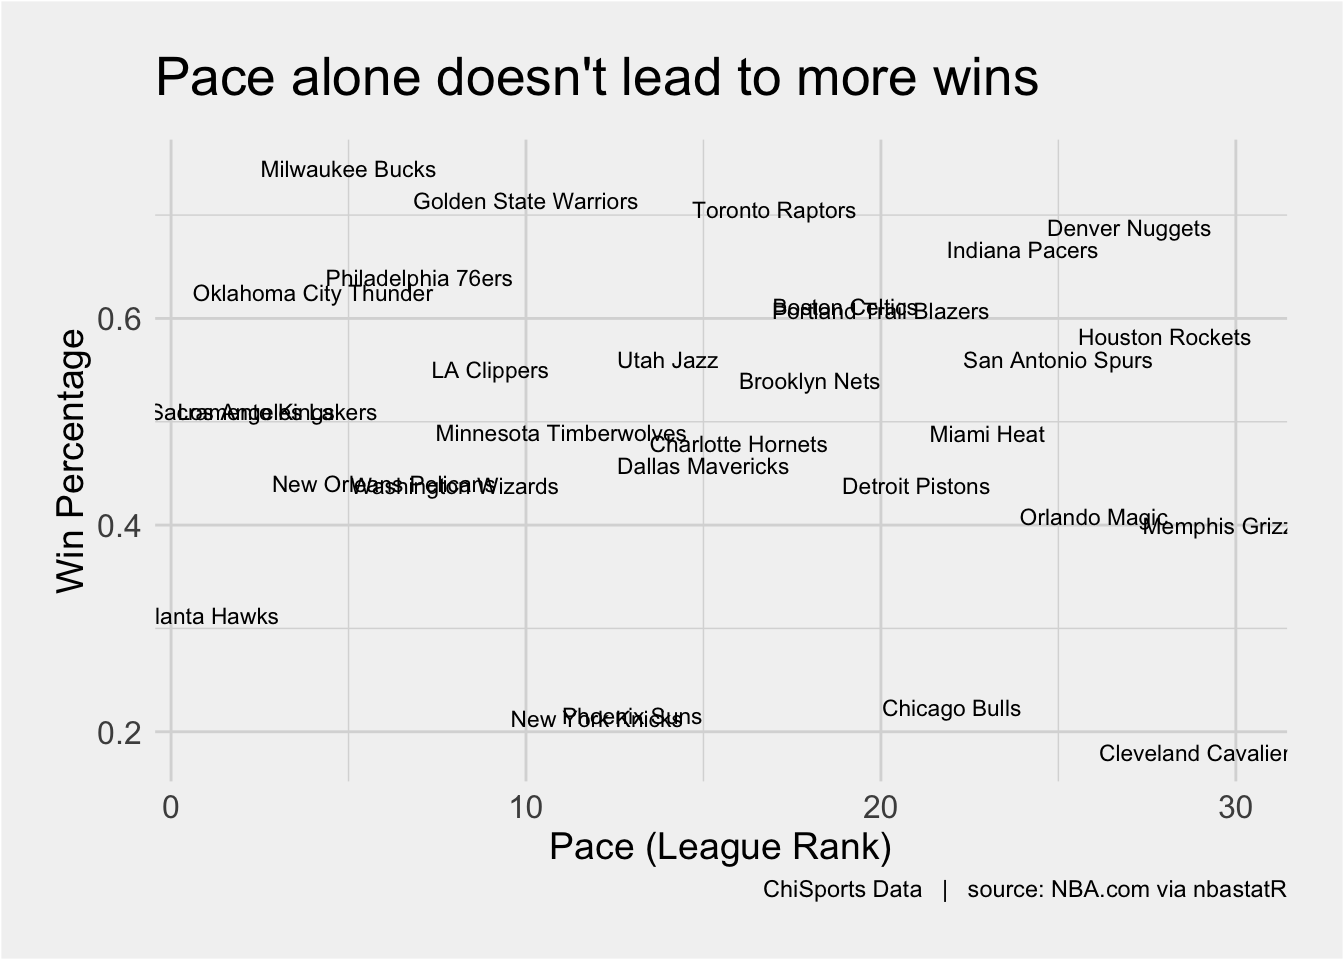
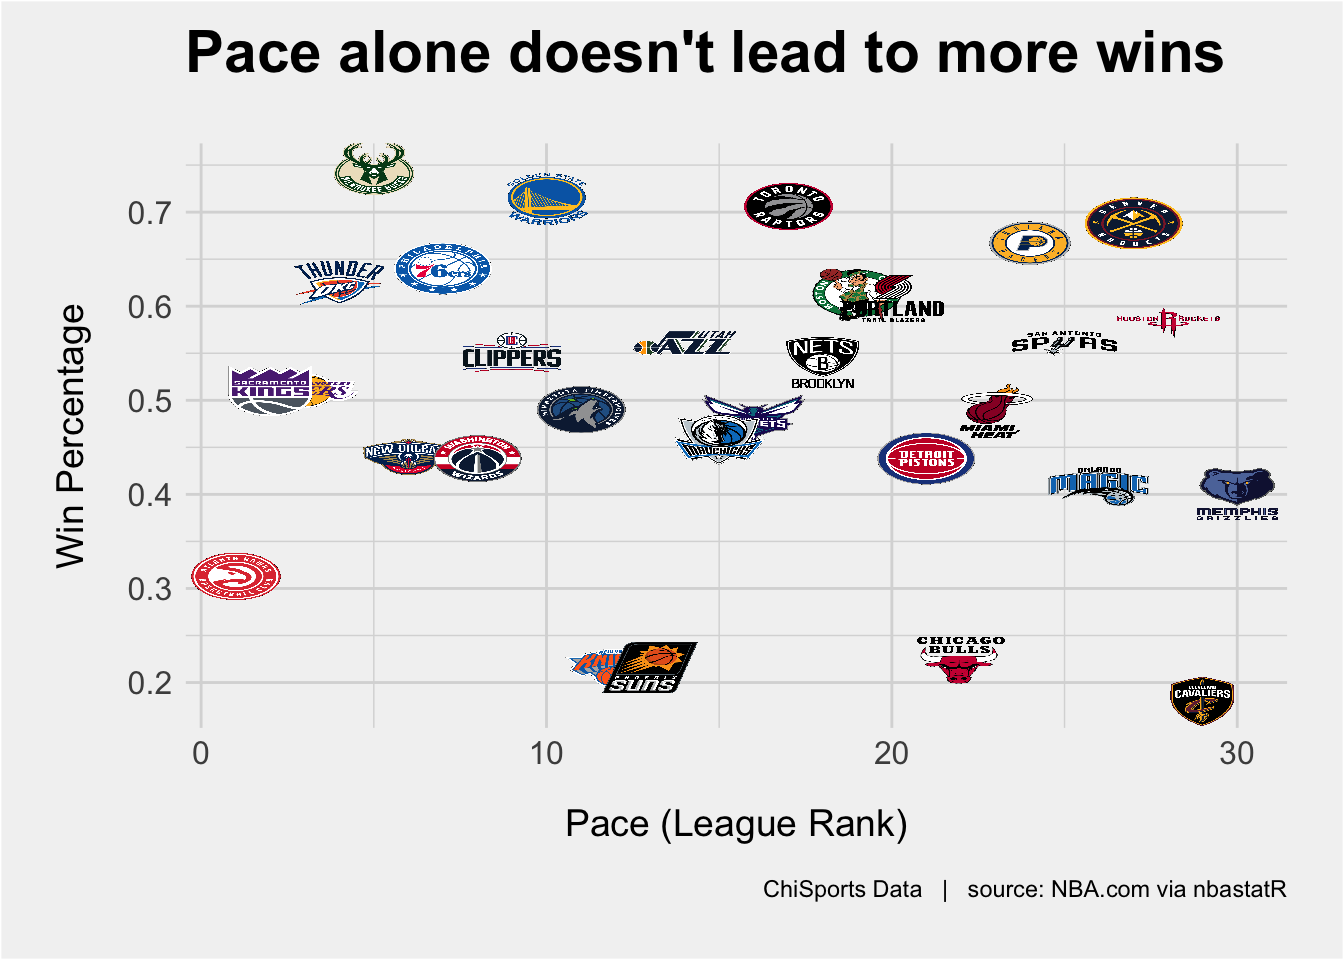
completed pace plot and discussion

diff --git a/content/post/2019-01-24-looking-for-a-reset-button-how-jim-boylen-changed-the-2019-bulls.html b/content/post/2019-01-24-looking-for-a-reset-button-how-jim-boylen-changed-the-2019-bulls.html
@@ -6,12 +6,11 @@ slug: looking-for-a-reset-button-how-jim-boylen-changed-the-2019-bulls
 categories:
   - BULLS
 tags: []
-draft: TRUE
 ---
 
 
 
-<p>Since taking over for Fred Hoiberg at the beginning of December, Jim Boylen has taken a ton of criticism for his approach as the new lead man for the Bulls, but rightfully so. His “play hard” mentality and push to be the best conditioned team in the league (defending push-up champs) hasn’t resonated with players of this era. Not only is this management style not fitting well, his philosophy as a coach doesn’t fit the mold of how the league has trended with a barrage of three point attempts coming per game. While this is rather easy to see now after 24 games, I initially wanted to reserve any judgement on the new coach and see how the team would perform and if the young core would develop. Well, after a 20 point drubbing from the rebuilding Atlanta Hawks at home, I think it’s safe to say the team has some work to do. Not only do we not see any cohesiveness from the team on the court, but we are starting to sense some divide amongst the players and the direction their coach is taking them.</p>
+<p>Since taking over for Fred Hoiberg at the beginning of December, Jim Boylen has taken a ton of criticism for his approach as the new lead man for the Bulls, but rightfully so. His “play hard” mentality and push to be the best conditioned team in the league (defending push-up champs) hasn’t resonated with players of this era. Not only is this management style not fitting well, his philosophy as a coach doesn’t fit the mold of how the league has trended with a barrage of three point attempts coming per game. While this is rather easy to see now after 25 games, I initially wanted to reserve any judgement on the new coach and see how the team would perform and if the young core would develop. Well, after a 20 point drubbing from the rebuilding Atlanta Hawks at home, I think it’s safe to say the team has some work to do. Not only do we not see any cohesiveness from the team on the court, but we are starting to sense some divide amongst the players and the direction their coach is taking them.</p>
 {{% tweet "1088602351747977218" %}}
 <p>Now that Boylen has at least matched the number of games Hoiberg has coached this year, let’s see how the team has transformed.</p>
 <div id="shot-selection" class="section level3">
@@ -22,8 +21,8 @@ draft: TRUE
 </div>
 <div id="pace" class="section level3">
 <h3>Pace</h3>
-<p>We’ve read ad nauseam and seen just how much Jim Boylen wanted to slow the pace down for this team. The team has recently been upping the pace a bit and utilizing it effectively to get points in transition, but that wasn’t the case in Boylen’s earlier games. The reason so many have called for the Bulls to play uptempo is because of the makeup of this roster. With such a young group of players, the coach should want to try and run the other team out of the gym. The Atalanta Hawks are currently ranked 1st in pace and while their win percentage won’t reflect it, the team has built an identity and found a way to make their players successful by getting up and down the floor. If Boylen really wants to try and play in the half-court setting, though, its not that you also can’t be successful doing that. The Spurs, Nuggets, and Rockets are all in the bottom 6 of the league when it comes to pace, possessions per 48.</p>
+<p>We’ve read ad nauseam and seen just how much Jim Boylen wanted to slow the pace down for this team. The team has recently been upping the pace a bit and utilizing it effectively to get points in transition, but that wasn’t the case in Boylen’s earlier games. The reason so many have called for the Bulls to play uptempo is because of the makeup of this roster. With such a young group of players, the coach should want to try and run the other team out of the gym. The Atlanta Hawks are currently ranked 1st in pace and while their win percentage won’t reflect it, the team has found a way to make their players successful by getting up and down the floor. If Boylen really wants to try and play in the half-court setting, though, its not that you can’t be successful doing that. The relationship between pace and a team’s win percentage isn’t linear.</p>
 <p><img src="/post/2019-01-24-looking-for-a-reset-button-how-jim-boylen-changed-the-2019-bulls_files/figure-html/unnamed-chunk-5-1.png" width="672" /></p>
-<p>Unlike the Bulls, though, these teams employ a very active, free-flowing offense in the half-court. Their offensive sets have allowed the Spurs to have the best 3P FG% in the league, while the Nuggets have the 2nd best assist ratio (assists per 100 poss.) in the league. The Rockets on the other hand, well, they have James Harden who is having a record-setting year.</p>
-<p>Slow pace can work, but its how you utilize the offense to generate open shots, something the Bulls haven’t quite done. In watching games, the team doesn’t look to have a real plan. There is far too much put on the shoulders of Zach Lavine to make plays and Lauri Markkanen to chuck up a bail out shot toward the end of the shot clock. The team, and mainly its coach, needs to make an adjustment and find what can help make this team successful. Successful doesn’t need to be defined by wins either. With a team in a rebuild, it should at the very least mean they are competitive in most games. That’s something the team was under Fred Hoiberg. While the team won’t have a key cog in its rebuild in Wendell Carter Jr., they still have Lavine, Dunn, and Markkanen who need to develop. With less than half the season left, its up to Jim Boylen to adjust to what he has on the roster and figure out this team’s strength. Just like the players, I’m sick of seeing blowout losses and something needs to change.</p>
+<p>The Spurs, Nuggets, and Rockets are all in the bottom 6 of the league when it comes to pace, possessions per 48. Unlike the Bulls, though, these teams employ a very active, motion offense in the half-court. Their offensive sets have allowed the Spurs to have the best 3P FG% in the league, while the Nuggets have the 2nd best assist ratio (assists per 100 poss.) in the league. The Rockets on the other hand, well, they have James Harden who is having a record-setting year.</p>
+<p>Slow pace <strong>can</strong> work, but its how you utilize the offense to generate open shots - something the Bulls haven’t quite done. In watching games, the team doesn’t look to have a real plan. There is far too much put on the shoulders of Zach Lavine to make plays and Lauri Markkanen to attempt a low percentage shot at the end of a shot clock. This team, and mainly its coach, need to make adjustments and find what can help make them successful. In the case of a rebuilding organization, successful doesn’t have to be defined by wins. At the very least it would mean remaining competitive in most games which is something they were doing under Fred Hoiberg. Just like the players, I’m sick of seeing blowout losses and something needs to change.</p>
 </div>
